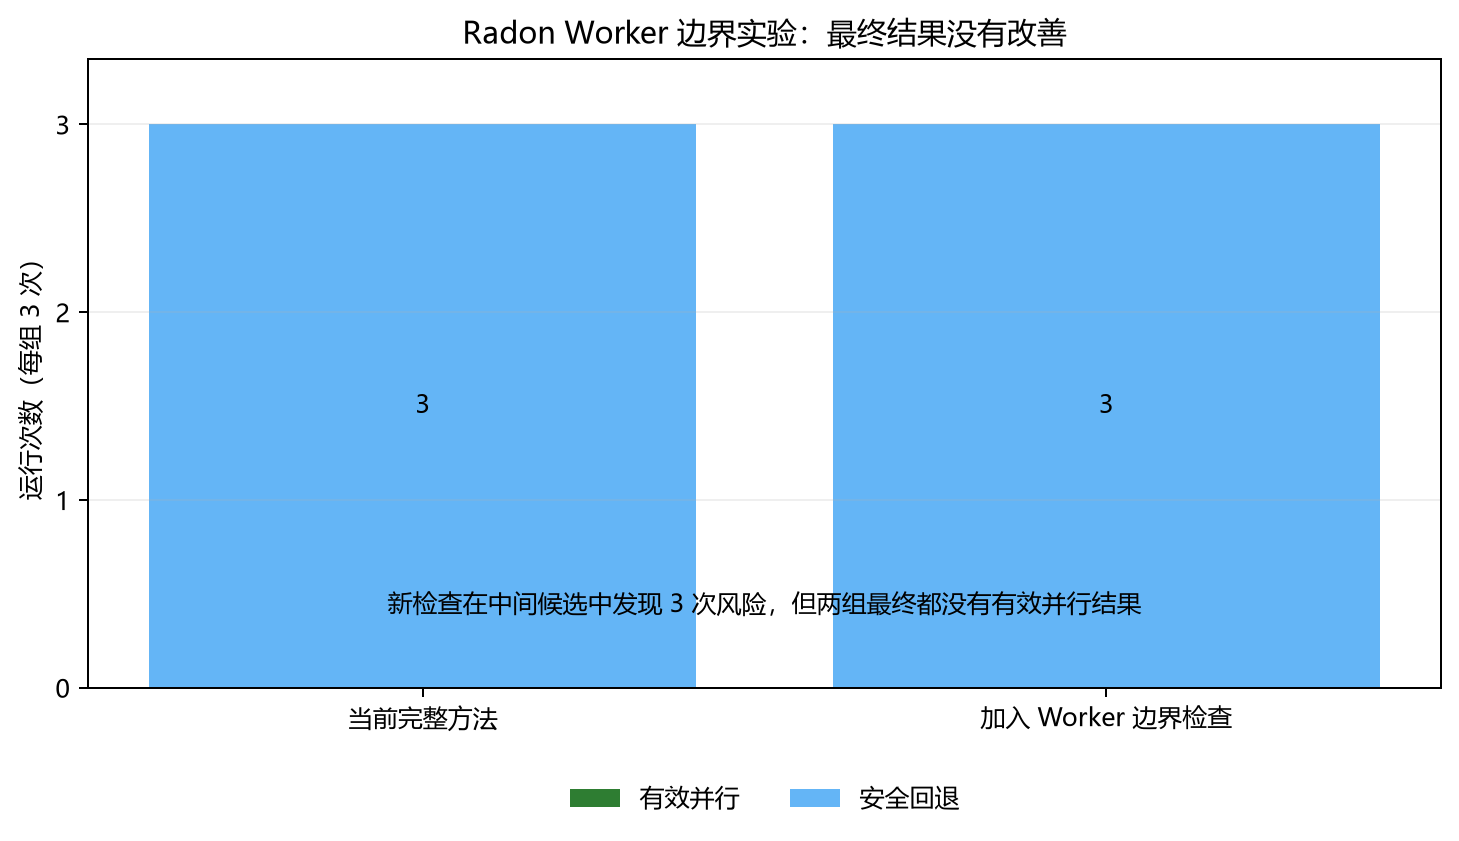
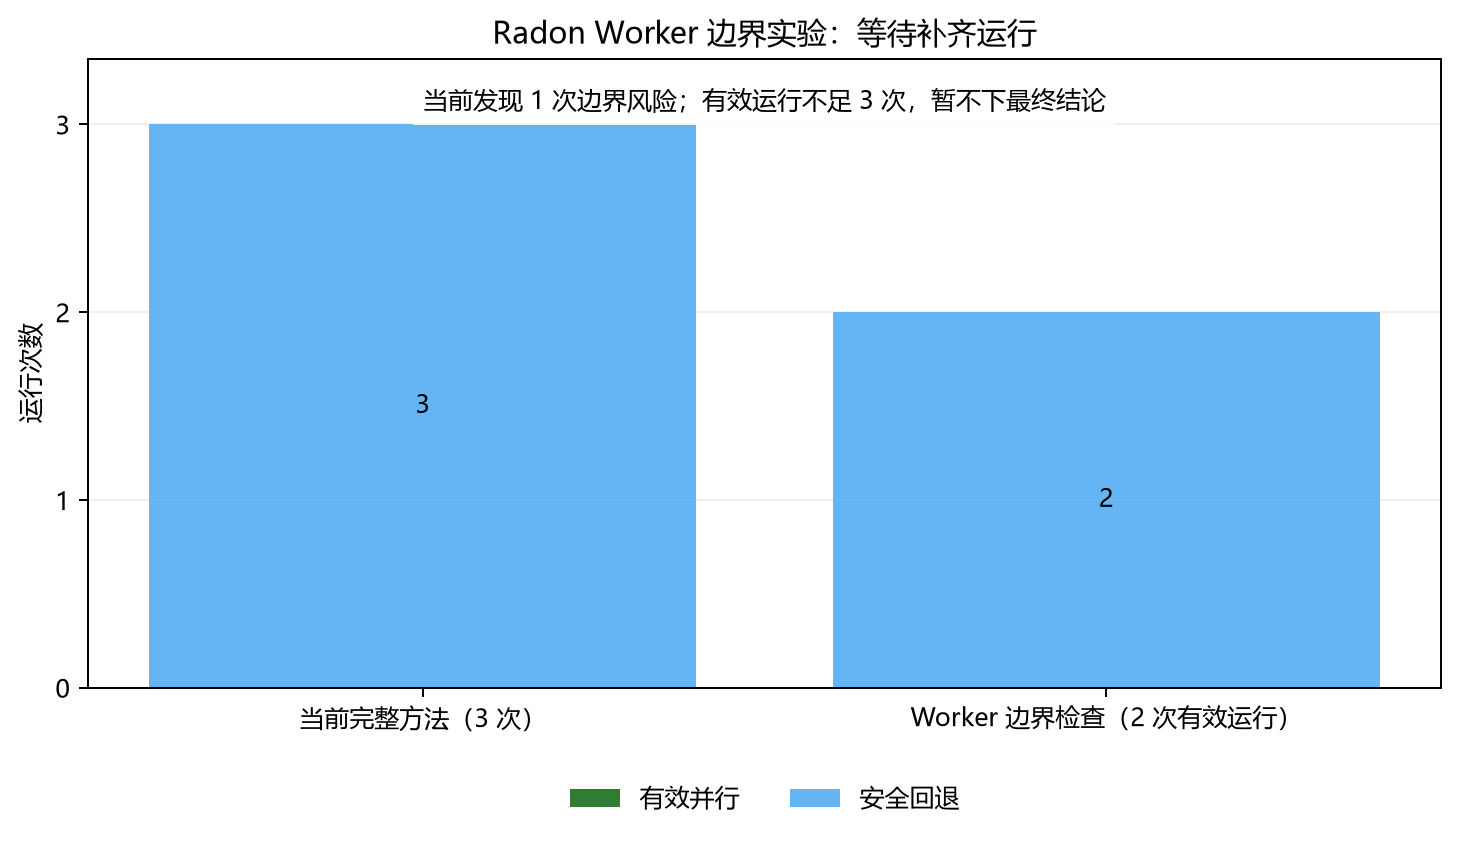
research: correct worker boundary classification

diff --git a/scripts/summarize_m7_worker_boundary.py b/scripts/summarize_m7_worker_boundary.py
@@ -26,11 +26,32 @@ def _radon_runs(summary: dict[str, Any]) -> list[dict[str, Any]]:
 def _candidate_statuses(results_root: Path) -> Counter[str]:
     counts: Counter[str] = Counter()
     for path in sorted(results_root.glob("radon/*/outcome.json")):
+        if (path.parent / "exclusion.json").is_file():
+            continue
         outcome = _read(path)
         for event in outcome.get("agent", {}).get("events", []):
             evaluation = event.get("observation", {}).get("candidate_evaluation")
             if isinstance(evaluation, dict) and evaluation.get("status"):
                 counts[str(evaluation["status"])] += 1
+    return counts
+
+
+def _boundary_finding_kinds(results_root: Path) -> Counter[str]:
+    counts: Counter[str] = Counter()
+    for path in sorted(results_root.glob("radon/*/outcome.json")):
+        if (path.parent / "exclusion.json").is_file():
+            continue
+        outcome = _read(path)
+        for event in outcome.get("agent", {}).get("events", []):
+            evaluation = event.get("observation", {}).get("candidate_evaluation")
+            if not isinstance(evaluation, dict):
+                continue
+            report = evaluation.get("worker_boundary_report")
+            if not isinstance(report, dict):
+                continue
+            for finding in report.get("findings", []):
+                if isinstance(finding, dict) and finding.get("kind"):
+                    counts[str(finding["kind"])] += 1
     return counts
 
 
@@ -58,6 +79,7 @@ def main() -> int:
     control_runs = _radon_runs(_read(args.control_summary))
     treatment_runs = _radon_runs(_read(args.treatment_summary))
     treatment_statuses = _candidate_statuses(args.treatment_results)
+    finding_kinds = _boundary_finding_kinds(args.treatment_results)
     compact = {
         "schema_version": 1,
         "project": "radon",
@@ -73,12 +95,17 @@ def main() -> int:
             "safe_fallback": sum(run["primary_outcome"] == "safe_serial_fallback" for run in treatment_runs),
             "model_tokens": sum(int(run.get("model_tokens") or 0) for run in treatment_runs),
             "candidate_evaluations": dict(treatment_statuses),
-            "boundary_failures": treatment_statuses["worker_boundary_failure"],
+            "boundary_findings": dict(finding_kinds),
+            "boundary_failures": sum(
+                count for kind, count in finding_kinds.items() if kind != "syntax_error"
+            ),
         },
+        "study_complete": len(treatment_runs) >= 3,
         "conclusion": (
-            "The boundary checker detected three risky process boundaries in two runs, "
-            "but produced no correct or effective final candidate; H5 is not supported "
-            "on the preregistered primary outcomes."
+            "The preregistered treatment has three valid runs and produced no correct "
+            "or effective final candidate; H5 is not supported on the primary outcomes."
+            if len(treatment_runs) >= 3
+            else "The treatment has fewer than three valid runs, so H5 remains pending."
         ),
     }
     args.output.parent.mkdir(parents=True, exist_ok=True)
@@ -86,7 +113,10 @@ def main() -> int:
 
     plt.rcParams["font.sans-serif"] = ["Microsoft YaHei", "SimHei", "Noto Sans CJK SC", "DejaVu Sans"]
     plt.rcParams["axes.unicode_minus"] = False
-    names = ["当前完整方法", "加入 Worker 边界检查"]
+    names = [
+        f"当前完整方法（{compact['control']['runs']} 次）",
+        f"Worker 边界检查（{compact['worker_boundary']['runs']} 次有效运行）",
+    ]
     effective = [compact["control"]["effective"], compact["worker_boundary"]["effective"]]
     fallback = [compact["control"]["safe_fallback"], compact["worker_boundary"]["safe_fallback"]]
     fig, ax = plt.subplots(figsize=(8.2, 4.8))
@@ -95,15 +125,26 @@ def main() -> int:
     ax.bar_label(bars, labels=[str(value) for value in fallback], label_type="center")
     ax.set_ylim(0, 3.35)
     ax.set_yticks([0, 1, 2, 3])
-    ax.set_ylabel("运行次数（每组 3 次）")
-    ax.set_title("Radon Worker 边界实验：最终结果没有改善")
+    ax.set_ylabel("运行次数")
+    ax.set_title(
+        "Radon Worker 边界实验：等待补齐运行"
+        if not compact["study_complete"]
+        else "Radon Worker 边界实验：最终结果没有改善"
+    )
     ax.text(
         0.5,
-        0.12,
-        "新检查在中间候选中发现 3 次风险，但两组最终都没有有效并行结果",
+        0.92,
+        (
+            f"当前发现 {compact['worker_boundary']['boundary_failures']} 次边界风险；"
+            "有效运行不足 3 次，暂不下最终结论"
+            if not compact["study_complete"]
+            else f"新检查发现 {compact['worker_boundary']['boundary_failures']} 次边界风险，"
+            "但两组最终都没有有效并行结果"
+        ),
         transform=ax.transAxes,
         ha="center",
         fontsize=10,
+        bbox={"facecolor": "white", "edgecolor": "none", "alpha": 0.85},
     )
     ax.legend(loc="upper center", bbox_to_anchor=(0.5, -0.12), ncol=2, frameon=False)
     ax.grid(axis="y", alpha=0.2)

diff --git a/src/parallel_agent/repository_agent.py b/src/parallel_agent/repository_agent.py
@@ -218,8 +218,16 @@ def analyze_process_worker_boundaries(paths: list[Path]) -> dict[str, Any]:
                             "message": "A lambda is passed to a process worker.",
                         }
                     )
+    has_syntax_error = any(item["kind"] == "syntax_error" for item in findings)
+    has_boundary_risk = any(item["kind"] != "syntax_error" for item in findings)
     return {
-        "status": "risky_process_boundary" if findings else "no_high_confidence_risk",
+        "status": (
+            "syntax_error"
+            if has_syntax_error
+            else "risky_process_boundary"
+            if has_boundary_risk
+            else "no_high_confidence_risk"
+        ),
         "process_submission_calls": process_calls,
         "findings": findings,
         "scope": (
@@ -1074,7 +1082,19 @@ Rules:
                 json.dumps(boundary_report, ensure_ascii=False, indent=2),
                 encoding="utf-8",
             )
-            if boundary_report["findings"]:
+            if boundary_report["status"] == "syntax_error":
+                evaluation = {
+                    "status": "syntax_failure",
+                    "tests_pass": None,
+                    "worker_boundary_report": boundary_report,
+                    "instruction": (
+                        "Repair the Python syntax before evaluating the process "
+                        "Worker boundary or running the expensive test suite."
+                    ),
+                }
+                self.last_candidate_evaluation = evaluation
+                return evaluation
+            if boundary_report["status"] == "risky_process_boundary":
                 evaluation = {
                     "status": "worker_boundary_failure",
                     "tests_pass": None,

diff --git a/tests/test_m7_worker_boundary_summary.py b/tests/test_m7_worker_boundary_summary.py
@@ -48,3 +48,29 @@ def test_candidate_statuses_count_boundary_feedback(tmp_path: Path) -> None:
 
     assert counts["worker_boundary_failure"] == 1
     assert counts["integration_or_output_failure"] == 1
+
+
+def test_excluded_run_is_not_counted(tmp_path: Path) -> None:
+    run = tmp_path / "radon" / "run-03"
+    run.mkdir(parents=True)
+    (run / "outcome.json").write_text(
+        json.dumps(
+            {
+                "agent": {
+                    "events": [
+                        {
+                            "observation": {
+                                "candidate_evaluation": {
+                                    "status": "worker_boundary_failure"
+                                }
+                            }
+                        }
+                    ]
+                }
+            }
+        ),
+        encoding="utf-8",
+    )
+    (run / "exclusion.json").write_text("{}", encoding="utf-8")
+
+    assert MODULE._candidate_statuses(tmp_path) == {}

diff --git a/tests/test_repository_agent.py b/tests/test_repository_agent.py
@@ -120,6 +120,16 @@ def run(paths, strict):
     assert report["findings"] == []
 
 
+def test_worker_boundary_keeps_syntax_failure_separate(tmp_path: Path) -> None:
+    source = tmp_path / "worker.py"
+    source.write_text("def broken(:\n    pass\n", encoding="utf-8")
+
+    report = analyze_process_worker_boundaries([source])
+
+    assert report["status"] == "syntax_error"
+    assert report["findings"][0]["kind"] == "syntax_error"
+
+
 def test_apply_edit_requires_unique_exact_text(tmp_path: Path) -> None:
     source = tmp_path / "main.py"
     source.write_text("value = 1\n", encoding="utf-8")

diff --git a/docs/limitations.md b/docs/limitations.md
@@ -36,5 +36,5 @@
 4. 对源码锚点、语义契约和反馈回退分别做更完整的消融；
 5. 报告 Agent 调用、Token 和实验时间，分析自动优化的实际成本。
 
-M7 已先验证第 1 项中的一个窄版本：只检查绑定实例方法、嵌套函数、lambda 和 self/cls 参数。
-它能发现风险，但没有提高 Radon 的最终正确率，因此不能继续沿“增加静态规则”机械扩展。
+M7 正在验证第 1 项中的一个窄版本：只检查绑定实例方法、嵌套函数、lambda 和 self/cls 参数。
+初次分类把语法错误混入边界风险，已经排除并修正；当前还少 1 次有效运行，不能提前判断效果。
